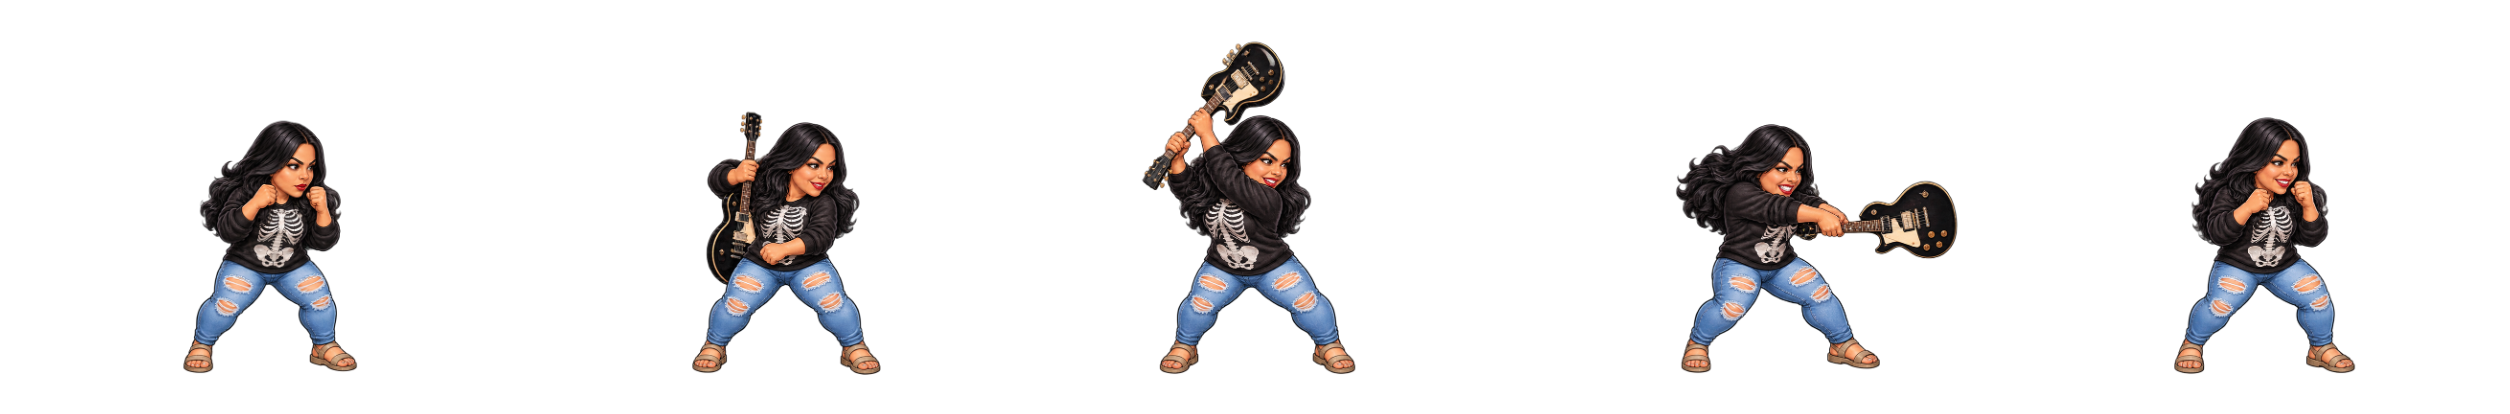
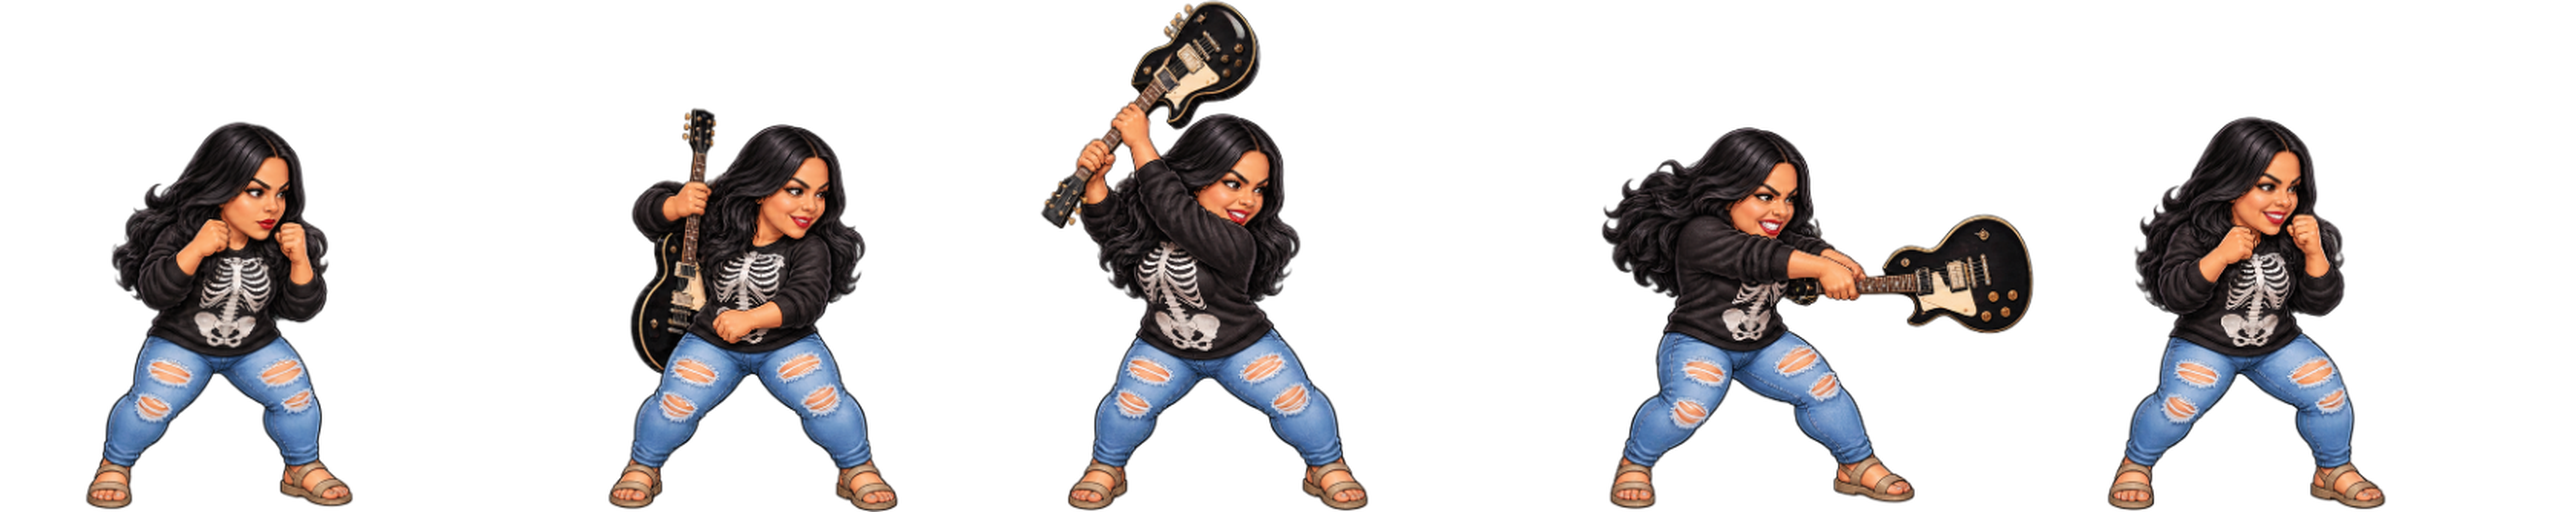
V06.3.2 - GIOVANNA TERROR FIX

diff --git a/index.html b/index.html
@@ -468,6 +468,14 @@ body.mobileFight #mobileControls{display:block}
 #gioTerrorShake{position:absolute;inset:0;z-index:90;display:none;pointer-events:none}
 #gioTerrorShake.on{display:block;animation:gioShake .08s linear 8}
 @keyframes gioShake{0%,100%{transform:translate(0)}25%{transform:translate(-5px,3px)}50%{transform:translate(5px,-3px)}75%{transform:translate(-3px,-4px)}}
+
+/* V06.3.2 — Giovanna: sprites normalizados sem esticar + fogo corporal estilizado */
+#gioTerrorFire{display:none!important}
+#p2img.gioTerrorBurn{animation:gioBodyBurn .12s infinite alternate!important}
+@keyframes gioBodyBurn{
+ from{filter:sepia(1) saturate(7) hue-rotate(-18deg) brightness(1.45) drop-shadow(0 0 12px #ff7a00) drop-shadow(0 0 24px #ff2400)}
+ to{filter:sepia(1) saturate(9) hue-rotate(-35deg) brightness(2.05) drop-shadow(0 0 22px #ffd000) drop-shadow(0 0 38px #ff3b00)}
+}
 </style>
 <!-- PC TESTE 02 ALLAN BAHIA • ESCALA FIX + NUVEM ALPHA -->
 
@@ -1788,7 +1796,7 @@ function gioGuitarPush(k){
 async function runGiovannaGuitarrada(){
  if(selectedFighter!=='giovanna'||busy||defeatState!=='fight')return false;
  if(performance.now()<p1SpecialCooldownUntil){const c=document.getElementById('centerCall');if(c){c.textContent='ESPECIAL • AGUARDE '+(specialCooldownLeft(p1SpecialCooldownUntil)/1000).toFixed(1)+'s';c.className='centerCall show';setTimeout(()=>c.classList.remove('show'),360);}return true;}
- markP1SpecialCooldown();busy=true;keys.clear();const old=P1_ASSETS.special;P1_ASSETS.special={src:'giovanna_terror/terror_guitarra.png',frames:5};
+ markP1SpecialCooldown();busy=true;keys.clear();const old=P1_ASSETS.special;P1_ASSETS.special={src:'giovanna_terror/guitarrada.png',frames:5};
  const cs=document.getElementById('combatStatus');if(cs)cs.textContent='GIOVANNA • GUITARRADA!';arcadeSfx('attack_grunt.wav',.45);
  const st=performance.now(),dur=620;let hit=false;await new Promise(resolve=>{function tick(t){const q=Math.min(1,(t-st)/dur),f=Math.min(4,Math.floor(q*5));setAnim(I1,'special',f);if(!hit&&q>=.54){hit=true;if(distancePct()<=7.2){hp2=Math.max(0,hp2-18);life2.style.width=hp2+'%';impactFX(F2,'kick');try{combatImpactV2(F2,true)}catch(_e){};sfx('hurt');p2HurtUntil=performance.now()+430;setAnim(I2,'damage',0);if(cs)cs.textContent='GUITARRADA! • VIDA P2: '+hp2;}else if(cs)cs.textContent='GUITARRADA FORA DE ALCANCE';}if(q<1)requestAnimationFrame(tick);else resolve();}requestAnimationFrame(tick);});
  P1_ASSETS.special=old;busy=false;if(defeatState==='fight')setAnim(I1,'idle',0);if(hp2<=0)startDefeatSequence();return true;
@@ -1808,9 +1816,9 @@ async function runGiovannaTerror(){
  const fin=document.getElementById('finishCall'),fi=document.getElementById('finisherInput'),cs=document.getElementById('combatStatus'),lava=document.getElementById('gioTerrorLava'),fire=document.getElementById('gioTerrorFire'),shake=document.getElementById('gioTerrorShake');if(fin){fin.classList.remove('on');fin.textContent='';}if(fi)fi.textContent="GIOVANNA'S TERROR ✓  TRÁS → TRÁS → CHUTE";if(cs)cs.textContent="GIOVANNA'S TERROR!";
  const old=P1_ASSETS.special,oldVictory=P1_ASSETS.victory;P1_ASSETS.special={src:'giovanna_terror/terror_caricality.png',frames:5};P1_ASSETS.victory={src:'giovanna_terror/terror_vitoria.png',frames:1};
  shake?.classList.add('on');await animateFixed(I1,'special',720,false);shake?.classList.remove('on');lava?.classList.add('on');await new Promise(r=>setTimeout(r,420));
- P1_ASSETS.special={src:'giovanna_terror/terror_guitarra.png',frames:5};let riff=null;try{riff=new Audio('giovanna_terror/metal-loop.wav');riff.volume=.82;riff.play().catch(()=>{});}catch(_e){}
- const playStart=performance.now(),playDur=5200;await new Promise(resolve=>{function tick(t){const q=Math.min(1,(t-playStart)/playDur),f=Math.floor(((t-playStart)/115)%5);setAnim(I1,'special',f);const r=F2.getBoundingClientRect(),fr=document.getElementById('fightScreen').getBoundingClientRect();fire.style.left=(r.left-fr.left+r.width/2)+'px';fire.style.top=(r.top-fr.top+r.height*.92)+'px';if(q>.18)fire.classList.add('on');if(q>.62){I2.style.filter='grayscale(1) brightness(.28) contrast(1.8)';}if(q<1)requestAnimationFrame(tick);else resolve();}requestAnimationFrame(tick);});
- try{if(riff){riff.pause();riff.currentTime=0;}}catch(_e){}fire?.classList.remove('on');if(cs)cs.textContent='🔥 CARICALITY!';await animateFixed(I2,'fall',800,false);setAnim(I2,'ko',0);I2.style.filter='grayscale(1) brightness(.28) contrast(1.8)';
+ P1_ASSETS.special={src:'giovanna_terror/guitarrada.png',frames:5};let riff=null;try{riff=new Audio('giovanna_terror/metal-loop.wav');riff.volume=.82;riff.play().catch(()=>{});}catch(_e){}
+ const playStart=performance.now(),playDur=5200;await new Promise(resolve=>{function tick(t){const q=Math.min(1,(t-playStart)/playDur),f=Math.floor(((t-playStart)/115)%5);setAnim(I1,'special',f);const r=F2.getBoundingClientRect(),fr=document.getElementById('fightScreen').getBoundingClientRect();if(q>.18)I2.classList.add('gioTerrorBurn');if(q>.62){I2.classList.remove('gioTerrorBurn');I2.style.filter='grayscale(1) brightness(.28) contrast(1.8)';}if(q<1)requestAnimationFrame(tick);else resolve();}requestAnimationFrame(tick);});
+ try{if(riff){riff.pause();riff.currentTime=0;}}catch(_e){}I2.classList.remove('gioTerrorBurn');fire?.classList.remove('on');if(cs)cs.textContent='🔥 CARICALITY!';await animateFixed(I2,'fall',800,false);setAnim(I2,'ko',0);I2.style.filter='grayscale(1) brightness(.28) contrast(1.8)';
  const cc=document.getElementById('centerCall');if(cc){cc.textContent='CARICALITY!';cc.className='centerCall show';}setAnim(I1,'victory',0);sfx('victory');await new Promise(r=>setTimeout(r,1400));lava?.classList.remove('on');I2.style.filter='';P1_ASSETS.special=old;P1_ASSETS.victory=oldVictory;finishRound('p1');
 }
 
@@ -2662,7 +2670,7 @@ window.addEventListener('keydown',function(e){
  }
 },true);
 </script>
-<div id="v17badge" style="position:fixed;right:8px;bottom:6px;z-index:99999;color:#ff9a28;font:700 11px Arial;opacity:.72">V1.7.5.2 • V06.3.1 • GIOVANNA TERROR CARICALITY • NORMAL • COOLDOWN 2s</div>
+<div id="v17badge" style="position:fixed;right:8px;bottom:6px;z-index:99999;color:#ff9a28;font:700 11px Arial;opacity:.72">V1.7.5.2 • V06.3.2 • GIOVANNA TERROR CARICALITY • NORMAL • COOLDOWN 2s</div>
 <div id="rotateHint"><div><b>VIRE O CELULAR ↻</b>CARICA KOMBAT foi preparado para jogar na horizontal.</div></div>
 <div id="mobileControls" aria-label="Controles mobile">
  <div class="mpad">
